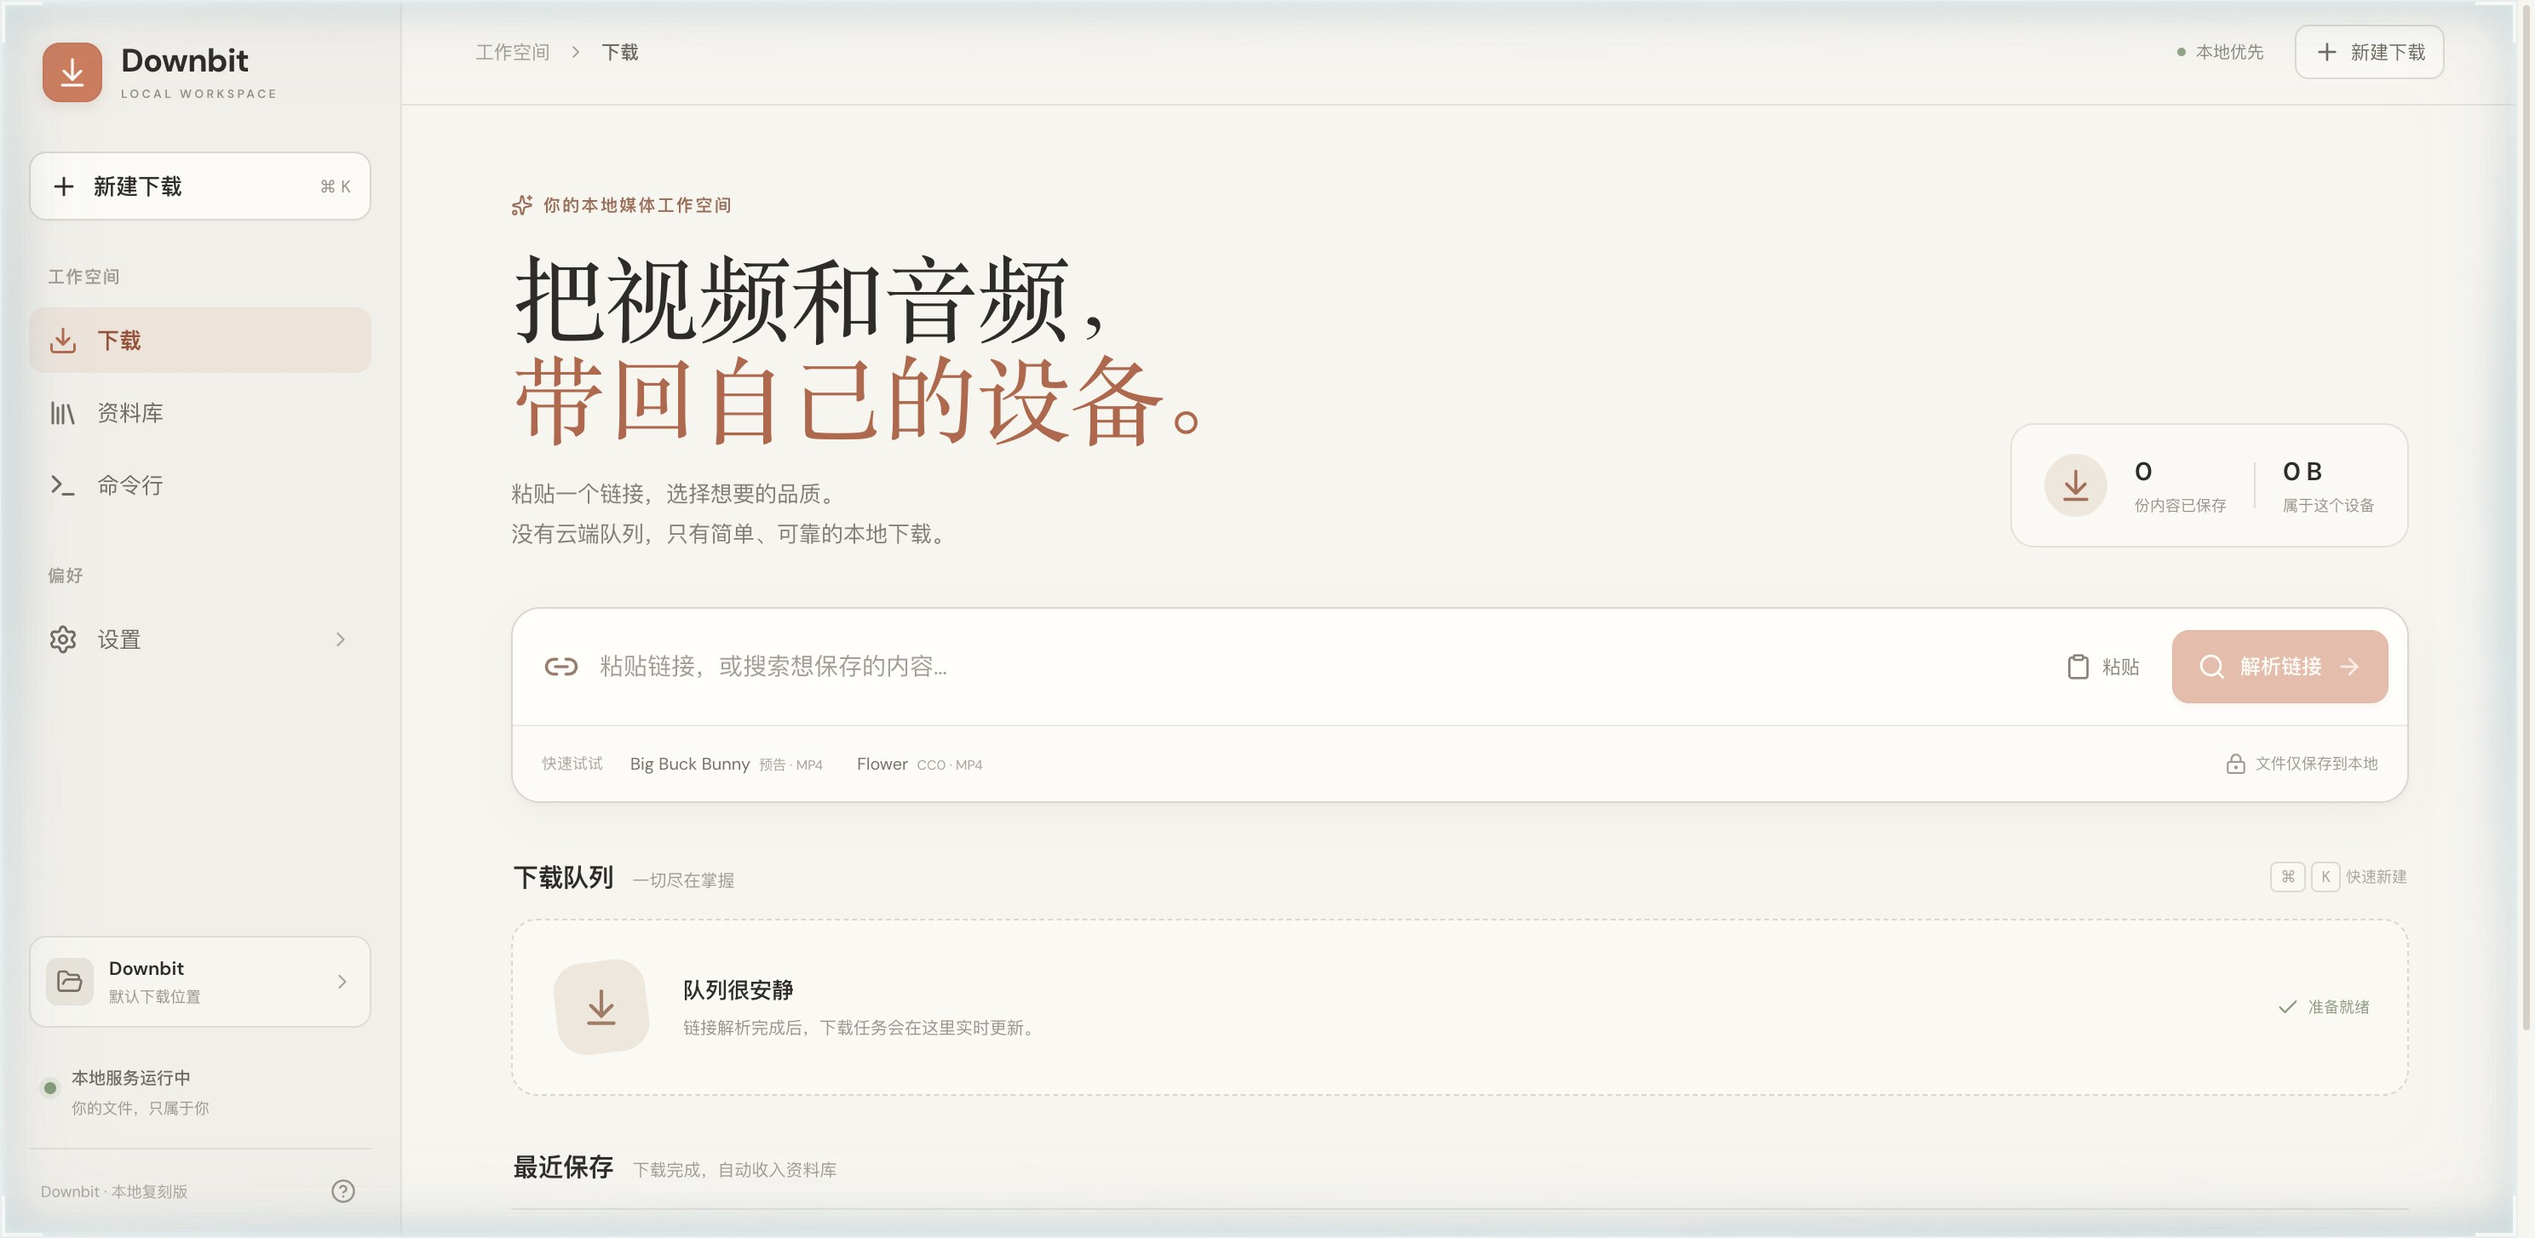
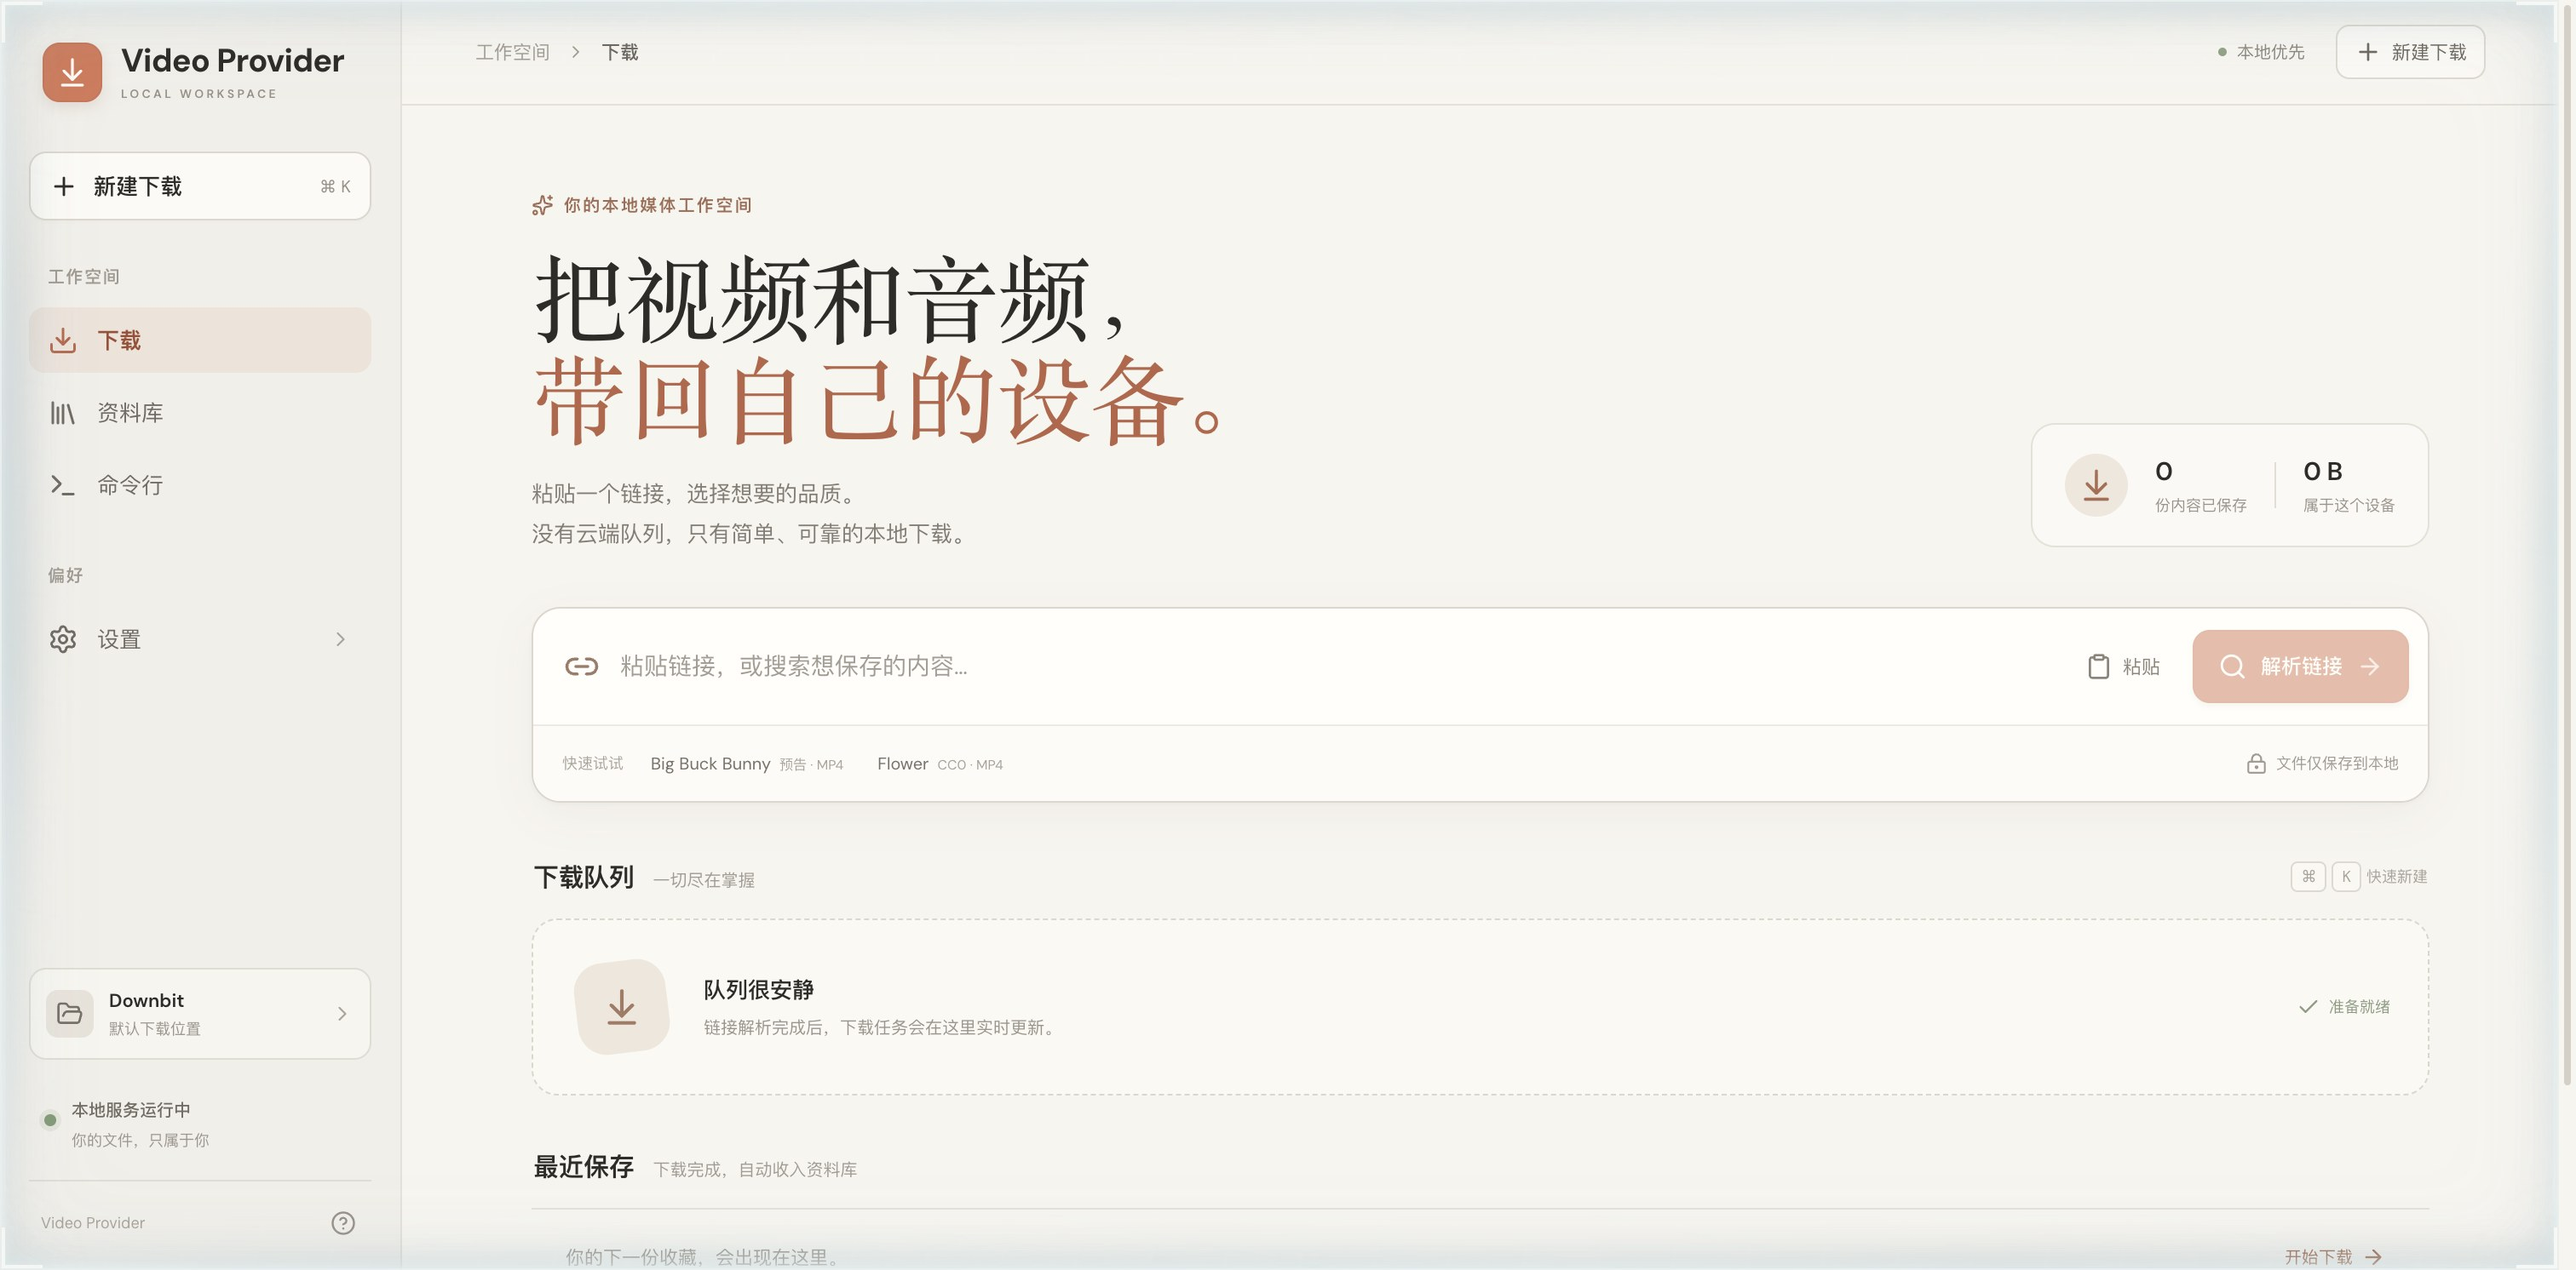
Rename product to Video Provider

diff --git a/src/pages/Cli.jsx b/src/pages/Cli.jsx
@@ -1,24 +1,24 @@
 import { useState } from 'react';
 import { Bot, Check, ChevronRight, Clipboard, Code2, ListVideo, Terminal, Workflow } from 'lucide-react';
 
-const commandCode = `# 让 downbit 命令在终端中可用
+const commandCode = `# 让 video-provider 命令在终端中可用
 npm link
 
 # 直接使用默认设置
- downbit <url>
+ video-provider <url>
 
 # 只保留音频，或指定画质与目录
- downbit get -a <url>
- downbit get -q 720 -o ~/Movies <url>
+ video-provider get -a <url>
+ video-provider get -q 720 -o ~/Movies <url>
 
 # 下载前查看信息与格式
- downbit info <url>
- downbit formats <url>
+ video-provider info <url>
+ video-provider formats <url>
 
 # 查看所有任务，或交给工作空间
- downbit list
- downbit open <url>`;
-const jsonCode = `$ downbit info <url> --json
+ video-provider list
+ video-provider open <url>`;
+const jsonCode = `$ video-provider info <url> --json
 {
   "kind": "ytdlp",
   "title": "Big Buck Bunny",
@@ -27,7 +27,7 @@ const jsonCode = `$ downbit info <url> --json
   "defaultFormat": "recommended"
 }
 
-$ downbit list --json
+$ video-provider list --json
 [
   {
     "id": "2c1f…",
@@ -53,7 +53,7 @@ export default function Cli() {
         <div className="terminal-mark"><Terminal size={44} strokeWidth={1.25} /><span>local-first</span></div>
       </section>
       <section className="cli-terminal">
-        <div className="terminal-top"><div className="terminal-lights"><i /><i /><i /></div><span>downbit — zsh</span><button onClick={copy}>{copied ? <Check size={15} /> : <Clipboard size={15} />}{copied ? '已复制' : '复制'}</button></div>
+        <div className="terminal-top"><div className="terminal-lights"><i /><i /><i /></div><span>video-provider — zsh</span><button onClick={copy}>{copied ? <Check size={15} /> : <Clipboard size={15} />}{copied ? '已复制' : '复制'}</button></div>
         <div className="terminal-tabs"><button className={tab === 'commands' ? 'active' : ''} onClick={() => setTab('commands')}><Code2 size={14} /> 常用命令</button><button className={tab === 'json' ? 'active' : ''} onClick={() => setTab('json')}><Bot size={14} /> JSON 输出</button></div>
         <pre><code>{code}</code></pre>
         <div className="terminal-foot"><span><i /> 本地服务已连接</span><span>UTF-8 · zsh</span></div>
@@ -63,7 +63,7 @@ export default function Cli() {
         <article><span><ListVideo size={20} /></span><h3>完整地管理任务</h3><p>使用任务 ID 暂停、继续或取消。直播录制也能通过 finish 停止并保存。</p></article>
         <article><span><Bot size={20} /></span><h3>为自动化而设计</h3><p>每个命令都支持 --json，输出结构化结果，方便脚本和智能体读取。</p></article>
       </section>
-      <section className="cli-task-commands"><h2>任务管理</h2><div><code>downbit pause &lt;id&gt;</code><ChevronRight size={14} /><code>downbit resume &lt;id&gt;</code><ChevronRight size={14} /><code>downbit finish &lt;id&gt;</code><ChevronRight size={14} /><code>downbit remove &lt;id&gt;</code></div></section>
+      <section className="cli-task-commands"><h2>任务管理</h2><div><code>video-provider pause &lt;id&gt;</code><ChevronRight size={14} /><code>video-provider resume &lt;id&gt;</code><ChevronRight size={14} /><code>video-provider finish &lt;id&gt;</code><ChevronRight size={14} /><code>video-provider remove &lt;id&gt;</code></div></section>
     </div>
   );
 }

diff --git a/cli/downbit.js b/cli/downbit.js
@@ -29,13 +29,13 @@ function help() {
   console.log(`Downbit · 本地视频与音频下载器
 
 用法
-  downbit <url>                  使用默认设置下载
-  downbit get [-a] [-q 720] [-f id] [-o ~/Movies] <url>
-  downbit open <url>              交给工作空间下载，不等待完成
-  downbit info <url|搜索词>        查看标题与来源
-  downbit formats <url>           查看可下载格式
-  downbit list                    查看网页与 CLI 的全部任务
-  downbit pause|resume|cancel|finish|remove <任务ID>
+  video-provider <url>                  使用默认设置下载
+  video-provider get [-a] [-q 720] [-f id] [-o ~/Movies] <url>
+  video-provider open <url>              交给工作空间下载，不等待完成
+  video-provider info <url|搜索词>        查看标题与来源
+  video-provider formats <url>           查看可下载格式
+  video-provider list                    查看网页与 CLI 的全部任务
+  video-provider pause|resume|cancel|finish|remove <任务ID>
 
 全局选项
   --json                         输出机器可读 JSON
@@ -43,14 +43,14 @@ function help() {
   --cookies <browser>            本次解析使用浏览器登录状态
   --port <port>                  本地服务端口，默认 4317
 
-首次使用 npm link 后可直接运行 downbit；也可运行 npm run cli -- <命令>。`);
+首次使用 npm link 后可直接运行 video-provider；也可运行 npm run cli -- <命令>。`);
 }
 
 async function health() {
   try {
     const response = await fetch(`${base}/api/health`, { signal: AbortSignal.timeout(700) });
     const data = await response.json();
-    return data.service === 'downbit-local';
+    return data.service === 'video-provider-local';
   } catch {
     return false;
   }
@@ -180,15 +180,15 @@ try {
       console.log(`${task.id.slice(0, 8)}  ${task.status.padEnd(11)} ${String(Math.floor(task.progress || 0)).padStart(3)}%  ${task.title}`);
     }
   } else if (['pause', 'resume', 'retry', 'cancel', 'finish'].includes(command)) {
-    if (!input) throw new Error(`用法: downbit ${command} <任务ID>`);
+    if (!input) throw new Error(`用法: video-provider ${command} <任务ID>`);
     const task = await request(`/api/tasks/${await taskId(input)}/action`, { method: 'POST', body: JSON.stringify({ action: command }) });
     if (options.json) print(task); else console.log(`${task.title}: ${task.status}`);
   } else if (command === 'remove') {
-    if (!input) throw new Error('用法: downbit remove <任务ID>');
+    if (!input) throw new Error('用法: video-provider remove <任务ID>');
     await request(`/api/tasks/${await taskId(input)}`, { method: 'DELETE' });
     if (options.json) print({ removed: input }); else console.log('已移除记录，本地文件保留。');
   } else if (['info', 'formats'].includes(command)) {
-    if (!input) throw new Error(`用法: downbit ${command} <url|搜索词>`);
+    if (!input) throw new Error(`用法: video-provider ${command} <url|搜索词>`);
     const info = await inspect(input);
     if (command === 'info' || options.json) print(info);
     else if (info.kind === 'playlist') {
@@ -211,6 +211,6 @@ try {
   }
 } catch (error) {
   if (options.json) console.error(JSON.stringify({ error: error.message }));
-  else console.error(`downbit: ${error.message}`);
+  else console.error(`video-provider: ${error.message}`);
   process.exitCode = 1;
 }

diff --git a/scripts/install-ytdlp.js b/scripts/install-ytdlp.js
@@ -9,30 +9,30 @@ const root = path.resolve(path.dirname(fileURLToPath(import.meta.url)), '..');
 const names = { darwin: 'yt-dlp_macos', linux: 'yt-dlp_linux', win32: 'yt-dlp.exe' };
 const name = names[process.platform];
 if (!name) {
-  console.log(`[downbit] No bundled yt-dlp for ${process.platform}; set YT_DLP_PATH.`);
+  console.log(`[video-provider] No bundled yt-dlp for ${process.platform}; set YT_DLP_PATH.`);
   process.exit(0);
 }
 
 const destination = path.join(root, 'bin', name);
 try {
   await access(destination);
-  console.log('[downbit] yt-dlp is already installed.');
+  console.log('[video-provider] yt-dlp is already installed.');
   process.exit(0);
 } catch {}
 
 await mkdir(path.dirname(destination), { recursive: true });
 const url = `https://github.com/yt-dlp/yt-dlp/releases/latest/download/${name}`;
-console.log('[downbit] Installing yt-dlp…');
+console.log('[video-provider] Installing yt-dlp…');
 try {
   const response = await fetch(url, {
-    headers: { 'user-agent': 'Downbit-Local/1.0' },
+    headers: { 'user-agent': 'Video-Provider/1.2.0' },
     signal: AbortSignal.timeout(120000),
   });
   if (!response.ok || !response.body) throw new Error(`HTTP ${response.status}`);
   await pipeline(Readable.fromWeb(response.body), createWriteStream(destination));
   if (process.platform !== 'win32') await chmod(destination, 0o755);
-  console.log(`[downbit] yt-dlp installed at ${destination}`);
+  console.log(`[video-provider] yt-dlp installed at ${destination}`);
 } catch (error) {
-  console.warn(`[downbit] Could not install yt-dlp: ${error.message}`);
-  console.warn('[downbit] Direct downloads still work. Run npm run postinstall to retry.');
+  console.warn(`[video-provider] Could not install yt-dlp: ${error.message}`);
+  console.warn('[video-provider] Direct downloads still work. Run npm run postinstall to retry.');
 }

diff --git a/src/App.jsx b/src/App.jsx
@@ -210,7 +210,7 @@ export default function App() {
   return (
     <div className="app-shell">
       <aside className="sidebar">
-        <button className="brand" onClick={() => navigate('downloads')} aria-label="Downbit 首页"><span className="brand-mark"><ArrowDownToLine size={20} /></span><span>Downbit<small>LOCAL WORKSPACE</small></span></button>
+        <button className="brand" onClick={() => navigate('downloads')} aria-label="Video Provider 首页"><span className="brand-mark"><ArrowDownToLine size={20} /></span><span>Video Provider<small>LOCAL WORKSPACE</small></span></button>
         <button className="sidebar-new" onClick={newDownload}><Plus size={17} /><span>新建下载</span><kbd>⌘ K</kbd></button>
         <nav className="sidebar-nav" aria-label="主导航">
           <span className="nav-section-label">工作空间</span>
@@ -221,7 +221,7 @@ export default function App() {
         <div className="sidebar-bottom">
           <button className="storage-card" onClick={() => navigate('settings')}><span><FolderOpen size={16} /></span><div><strong>{basename(settings.downloadDir)}</strong><small>默认下载位置</small></div><ChevronRight size={14} /></button>
           <div className="local-status"><span className={connected ? 'connected' : ''} /><div><strong>{connected ? '本地服务运行中' : '正在重新连接'}</strong><small>你的文件，只属于你</small></div></div>
-          <div className="sidebar-foot"><span>Downbit · 本地复刻版</span><button title="查看命令行" onClick={() => navigate('cli')}><CircleHelp size={15} /></button></div>
+          <div className="sidebar-foot"><span>Video Provider</span><button title="查看命令行" onClick={() => navigate('cli')}><CircleHelp size={15} /></button></div>
         </div>
       </aside>
 

diff --git a/server/index.js b/server/index.js
@@ -48,7 +48,7 @@ const state = () => ({
   accounts: { bilibili: accounts.snapshot(), xiaohongshu: xiaohongshu.snapshot() },
 });
 
-app.get('/api/health', (req, res) => res.json({ service: 'downbit-local', version: 1 }));
+app.get('/api/health', (req, res) => res.json({ service: 'video-provider-local', version: 1 }));
 app.get('/api/state', (req, res) => res.json(state()));
 app.get('/api/events', (req, res) => {
   res.set({ 'Content-Type': 'text/event-stream', 'Cache-Control': 'no-cache', Connection: 'keep-alive' });
@@ -239,13 +239,13 @@ function openWorkspace() {
 }
 
 const server = app.listen(port, host, () => {
-  console.log(`[downbit] Local service: http://${host}:${port}`);
-  if (fs.existsSync(path.join(dist, 'index.html'))) console.log(`[downbit] Workspace: http://${host}:${port}`);
+  console.log(`[video-provider] Local service: http://${host}:${port}`);
+  if (fs.existsSync(path.join(dist, 'index.html'))) console.log(`[video-provider] Workspace: http://${host}:${port}`);
   manager.recover();
   openWorkspace();
 });
 server.on('error', (error) => {
-  console.error(`[downbit] ${error.message}`);
+  console.error(`[video-provider] ${error.message}`);
   process.exitCode = 1;
 });
 

diff --git a/index.html b/index.html
@@ -4,9 +4,9 @@
     <meta charset="UTF-8" />
     <meta name="viewport" content="width=device-width, initial-scale=1.0" />
     <meta name="theme-color" content="#f7f5f0" />
-    <meta name="description" content="Downbit 本地媒体工作空间：解析、下载并整理网页视频与音频。" />
+    <meta name="description" content="Video Provider 本地媒体工作空间：解析、下载并整理网页视频与音频。" />
     <link rel="icon" type="image/svg+xml" href="/favicon.svg" />
-    <title>Downbit · 本地媒体工作空间</title>
+    <title>Video Provider · 本地媒体工作空间</title>
   </head>
   <body>
     <div id="root"></div>

diff --git a/server/accounts.js b/server/accounts.js
@@ -85,7 +85,7 @@ export function chromeExecutable() {
 }
 
 export function netscapeCookies(cookies) {
-  const lines = ['# Netscape HTTP Cookie File', '# Generated by Downbit Local. Do not share this file.'];
+  const lines = ['# Netscape HTTP Cookie File', '# Generated by Video Provider. Do not share this file.'];
   for (const cookie of cookies) {
     if (!cookie.name || !cookie.domain) continue;
     const domain = cookie.httpOnly ? `#HttpOnly_${cookie.domain}` : cookie.domain;

diff --git a/server/store.js b/server/store.js
@@ -3,7 +3,7 @@ import os from 'node:os';
 import path from 'node:path';
 
 const defaults = {
-  downloadDir: process.env.DOWNBIT_DOWNLOAD_DIR || path.join(os.homedir(), 'Downloads', 'Downbit'),
+  downloadDir: process.env.DOWNBIT_DOWNLOAD_DIR || path.join(os.homedir(), 'Downloads', 'VideoProvider'),
   maxConcurrent: 2,
   connections: 4,
   resumeOnStart: true,
